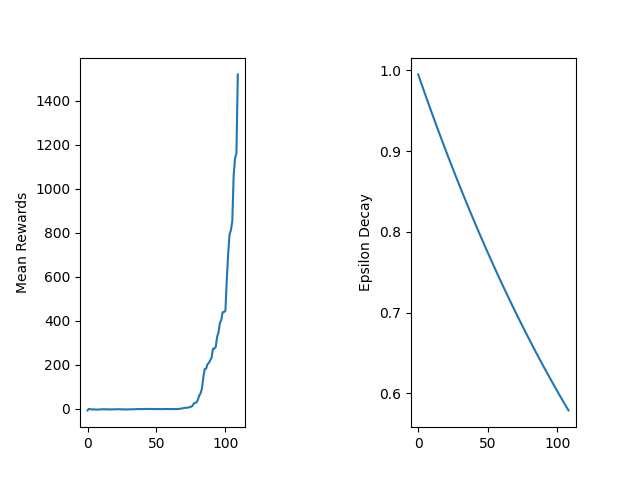
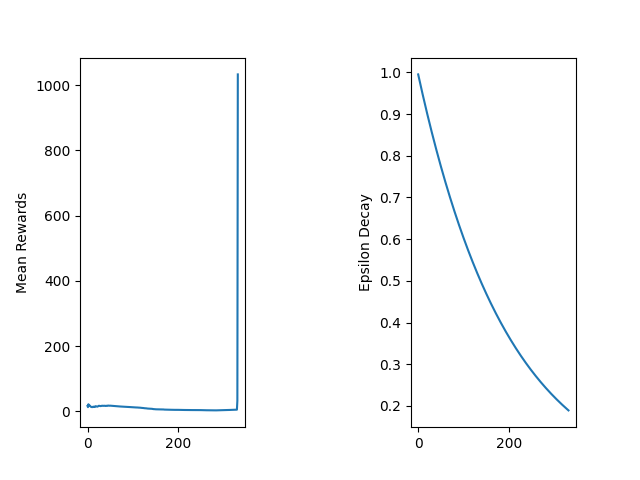
fix reward and action space, penalize for satying still

diff --git a/V4/racer.py b/V4/racer.py
@@ -1,7 +1,4 @@
 import os
-# Set SDL to use dummy video driver BEFORE importing pygame
-os.environ['SDL_VIDEODRIVER'] = 'dummy'
-
 import pygame
 import gymnasium as gym
 from gymnasium import spaces
@@ -14,6 +11,11 @@ class Racer(gym.Env):
 
     def __init__(self, render_mode=None, track_num=1):
         super().__init__()
+        
+        # Set dummy video driver for headless mode
+        if render_mode != "human":
+            os.environ['SDL_VIDEODRIVER'] = 'dummy'
+        
         pygame.init()
         self.WIDTH, self.HEIGHT = 800, 600
         self.render_mode = render_mode
@@ -46,8 +48,8 @@ class Racer(gym.Env):
         self.car_w, self.car_h = self.car_image.get_size()
 
         # Define action and observation spaces
-        # Actions: [steer_left, steer_right, accelerate]
-        self.action_space = spaces.Discrete(3)
+        # Actions: 0=left, 1=right, 2=accel, 3=left+accel, 4=right+accel, 5=do nothing
+        self.action_space = spaces.Discrete(6)
 
         # Observation: 5 LIDAR distances (normalized 0–1)
         self.num_lidars = 5
@@ -145,13 +147,22 @@ class Racer(gym.Env):
 
     def step(self, action):
         # Interpret action
-        if action == 0:   # steer left
+        if action == 0:   # steer left only
             self.angle += self.turn_speed
-        elif action == 1:  # steer right
+        elif action == 1:  # steer right only
             self.angle -= self.turn_speed
-        elif action == 2:  # accelerate
+        elif action == 2:  # accelerate only
             self.velocity_x += math.cos(math.radians(self.angle)) * self.acceleration
             self.velocity_y -= math.sin(math.radians(self.angle)) * self.acceleration
+        elif action == 3:  # steer left + accelerate
+            self.angle += self.turn_speed
+            self.velocity_x += math.cos(math.radians(self.angle)) * self.acceleration
+            self.velocity_y -= math.sin(math.radians(self.angle)) * self.acceleration
+        elif action == 4:  # steer right + accelerate
+            self.angle -= self.turn_speed
+            self.velocity_x += math.cos(math.radians(self.angle)) * self.acceleration
+            self.velocity_y -= math.sin(math.radians(self.angle)) * self.acceleration
+        # action == 5: do nothing
         
         # Speed limiting + friction
         speed = math.sqrt(self.velocity_x**2 + self.velocity_y**2)
@@ -167,12 +178,18 @@ class Racer(gym.Env):
         next_y = self.y + self.velocity_y
         corners = self.get_rotated_hitbox(next_x, next_y, self.car_w, self.car_h, self.angle)
 
-        reward = 0.02  # small positive reward for surviving
-        reward += 0.03 * speed  # for speed
+        reward = 0.0  # start with zero base reward
+        
+        # Strong reward for speed (encourage movement)
+        reward += 0.1 * speed
+        
+        # Small penalty for going too slow (discourage staying still)
+        if speed < 0.5:
+            reward -= 0.1
 
         # Collision check
         if self.check_collision(corners):
-            reward = -10.0
+            reward = -1.0  # reduced penalty so agent explores more
             terminated = True
             self.velocity_x = self.velocity_y = 0
         else:
@@ -190,9 +207,9 @@ class Racer(gym.Env):
         result = self.check_checkpoint_pixel()
 
         if result == "checkpoint":
-            reward += 5.0      # strong reward for progress
+            reward += 10.0      # strong reward for progress
         elif result == "lap":
-            reward += 20.0     # huge reward for completing the track
+            reward += 50.0      # huge reward for completing the track
 
         return obs, reward, terminated, truncated, info
 

diff --git a/V4/agent.py b/V4/agent.py
@@ -31,7 +31,7 @@ matplotlib.use('Agg')
 
 device = 'cpu' # force cpu
 
-TRACK_NUM = 3 # Track numbers [1, 2, 3, 4 ....]
+TRACK_NUM = 1 # Track numbers [1, 2, 3, 4 ....]
 
 # Deep Q-Learning Agent
 class Agent():
